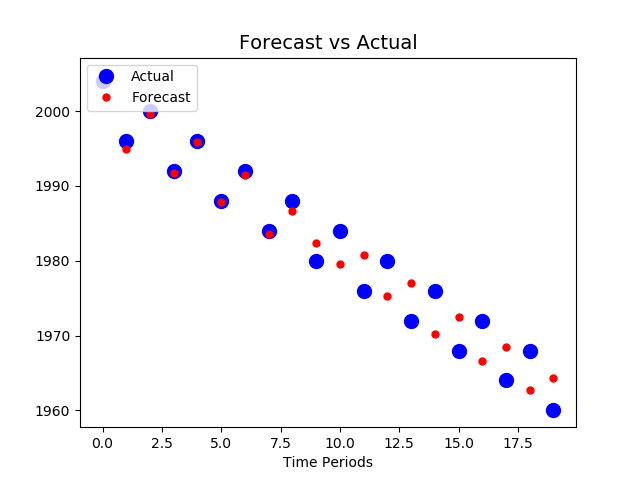
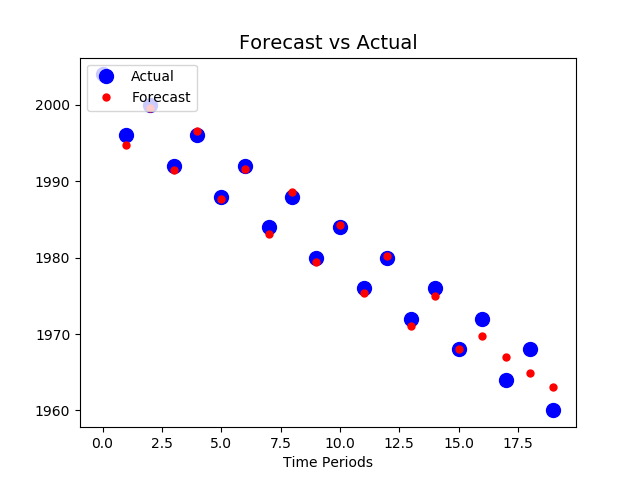
decomment les imports

diff --git a/HotLSTM_v1.py b/HotLSTM_v1.py
@@ -1,10 +1,10 @@
 import os
 
-"""
+
 import tensorflow as tf
 from tensorflow import keras
 print(tf.__version__)
-"""
+
 import numpy as np
 import matplotlib.pyplot as plt
 
@@ -55,7 +55,7 @@ init = tf.global_variables_initializer()
 
 with tf.Session() as sess:
 	init.run()
-	outputs_val = outputs.eval(feed_dict={X: X_batch})
+	outputs_val = outputs.eval(feed_dict={X: X_seqs})
 
 
 
